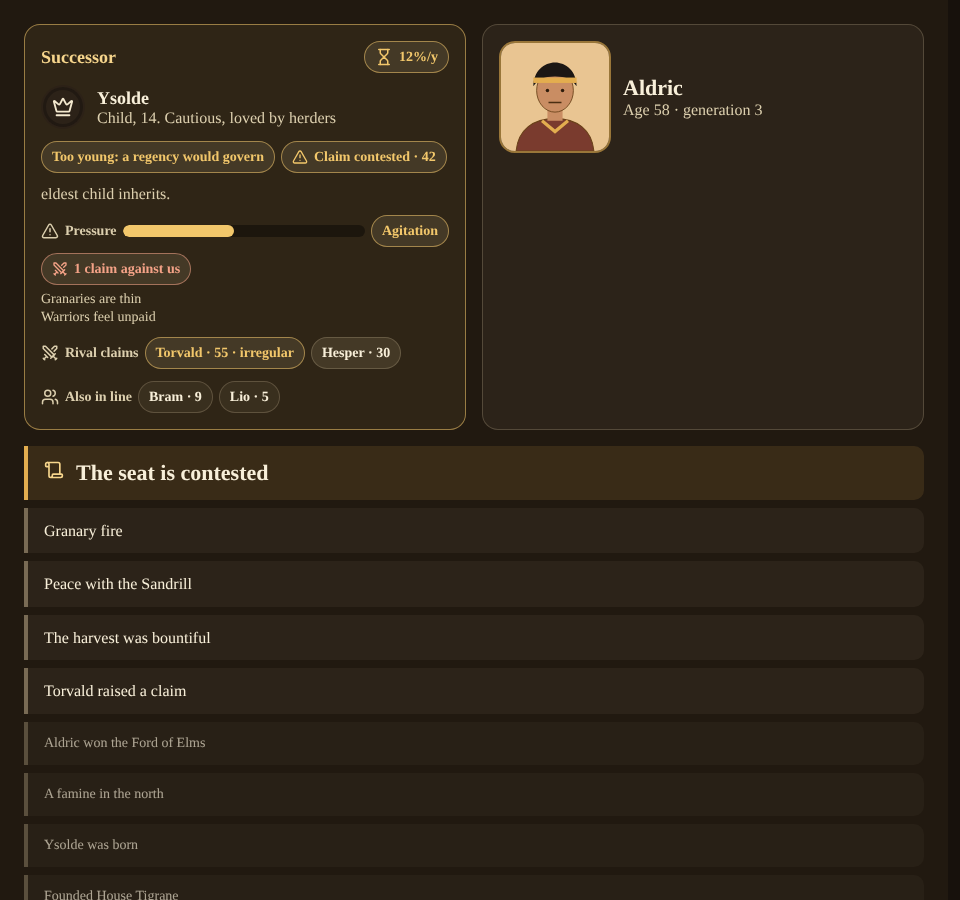
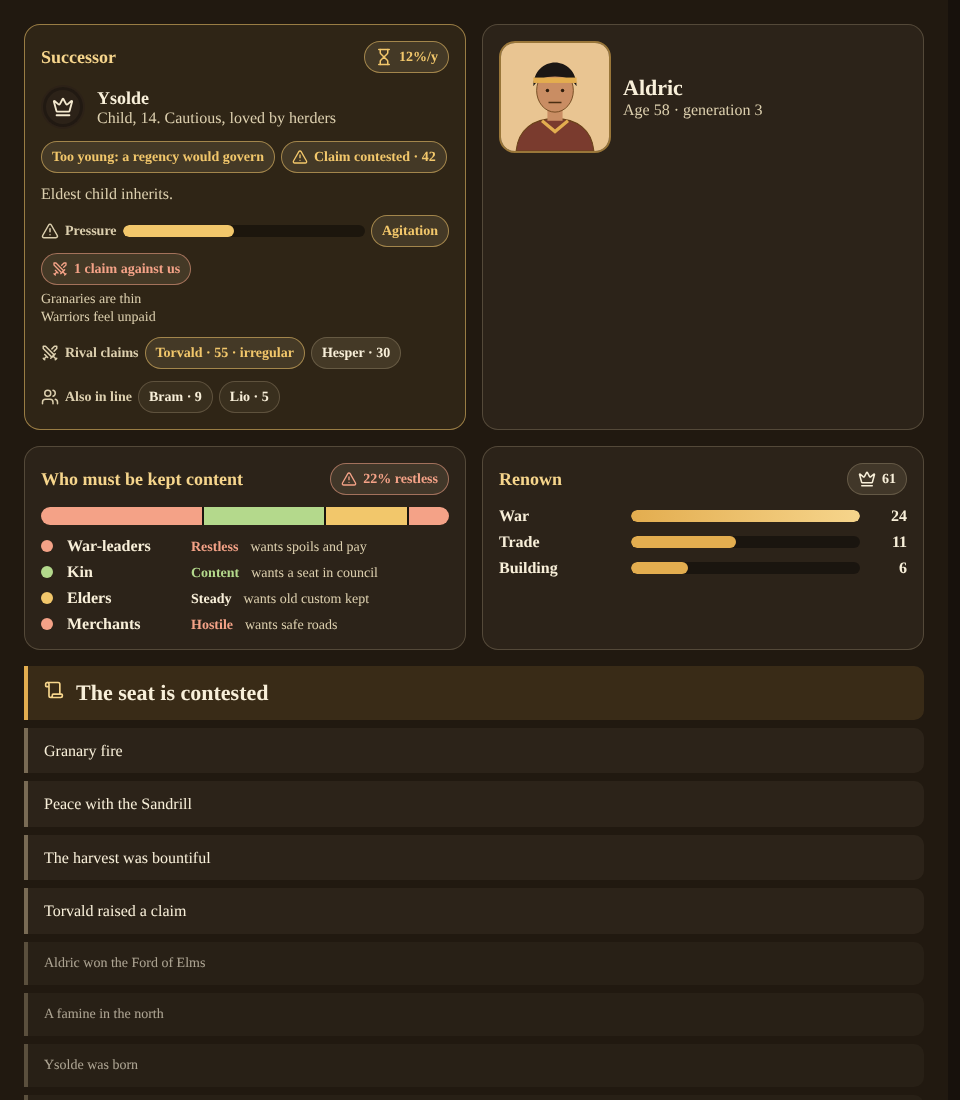
UI lane B: Hearth factions strip + renown bars on shared scale
Claude-Session: https://claude.ai/code/session_01Y7uzF5Xhf4ECeLZneKE5sH

diff --git a/src/ui/hearth/screens.tsx b/src/ui/hearth/screens.tsx
@@ -10,7 +10,7 @@ import {STAGES} from '@/game/breakaways';
 import {useOwnerReadModels} from '../useOwnerReadModels';
 import {useActionFeedback,FeedbackList} from '../council/useActionFeedback';
 import {CapitulationTerms} from '../council/CapitulationTerms';
-import {HandoverCard,RulerPortrait,FameFeed} from './councilCards';
+import {HandoverCard,RulerPortrait,FameFeed,FactionsCard,RenownCard} from './councilCards';
 const nice=(s:string)=>{const t=s.replace(/([a-z])([A-Z])/g,"$1 $2").toLowerCase();return t.charAt(0).toUpperCase()+t.slice(1);};
 import {FACTION_LABEL,lawLabel,loyaltyWord} from '../council/CouncilParts';
 import {SocietyFlag} from '../SocietyFlag';
@@ -107,8 +107,8 @@ export function CouncilScreen({engine,onClose,initial}:{engine:Engine;onClose:()
    {c.house&&<section className="hw-card"><div className="hw-card-head"><h3>House</h3></div><ul className="hw-chips">{c.house.family.map(p=><li key={p.name+p.age} className="hw-chip hw-chip-soft"><Users size={16}/>{p.name} · {p.role} · {p.age}</li>)}</ul></section>}
   </div>}
   {tab==='realm'&&<div className="hw-grid-2">
-   {c.showFactions&&c.factions.length>0&&<section className="hw-card"><div className="hw-card-head"><h3>Factions</h3>{c.coalitionLoss>0&&<span className="hw-chip t-bad">{c.coalitionLoss}% restless</span>}</div><ul className="hw-list">{c.factions.map(f=><li key={f.kind}><GameTooltip title={FACTION_LABEL[f.kind]??f.kind} description={`Wants ${f.demand}`}><span className="hw-meter-row"><b className="hw-lbl">{FACTION_LABEL[f.kind]??f.kind}</b>{bar(f.power,tone(f.loyalty))}<em className={'t-'+tone(f.loyalty)}>{loyaltyWord(f.loyalty)}</em></span></GameTooltip></li>)}</ul></section>}
-   {c.glory.some(g=>g.value>0)&&<section className="hw-card"><div className="hw-card-head"><h3>Renown</h3><span className="hw-chip"><Crown size={18}/>{c.gloryScore}</span></div><ul className="hw-list">{[...c.glory].filter(g=>g.value>0).sort((a,b)=>b.value-a.value).map(g=><li key={g.stream}><span className="hw-meter-row"><b className="hw-lbl">{g.stream}</b>{bar(Math.min(100,g.value*4))}<em>{g.value}</em></span></li>)}</ul></section>}
+   {c.showFactions&&c.factions.length>0&&<FactionsCard factions={c.factions} coalitionLoss={c.coalitionLoss}/>}
+   <RenownCard glory={c.glory} score={c.gloryScore}/>
    {c.expansion&&<section className="hw-card"><div className="hw-card-head"><h3>Expansion</h3><span className="hw-chip">{c.expansion.mode}</span></div>{c.expansion.why.length>0&&<ul className="hw-chips">{c.expansion.why.map(w=><li key={w} className="hw-chip hw-chip-soft">{w}</li>)}</ul>}</section>}
    {(s?.own.length||0)>0&&<section className="hw-card"><div className="hw-card-head"><h3>Our outlying halls</h3></div><ul className="hw-chips">{s!.own.map((o,i)=><li key={i} className="hw-chip"><StageMeter stage={o.stage} label="Outlying hall"/>{o.resolution?<em>{o.resolution}</em>:<small>{o.pressure}%</small>}</li>)}</ul></section>}
    {b?.enabled&&b.routes.length>0&&<section className="hw-card"><div className="hw-card-head"><h3>Routes</h3></div><ul className="hw-list">{b.routes.map(r=><li key={r.team}><span className="hw-meter-row"><b className="hw-lbl">{r.name}</b><span className={cx('hw-chip',r.mode==='blocked'&&'t-bad')}>{ROUTE_ICON({size:18})}{r.mode==='open'?'Open':r.mode==='agreement'?'Agreed':r.mode==='escort'?`Escort ×${r.guards||2}`:'Blocked'}</span></span></li>)}</ul></section>}

diff --git a/src/ui/hearth/councilCards.tsx b/src/ui/hearth/councilCards.tsx
@@ -50,3 +50,23 @@ export function FameFeed({log}:{log:string[]}){
  if(!items.length)return <p className="hw-empty">Nothing has happened to the house yet.</p>;
  return <ol className="hw-fame" aria-label="Chronicle">{items.map((l,i)=><li key={i} className={cx(i===0&&'is-new',i>4&&'is-old')}>{i===0&&<Scroll size={20}/>}<span>{l}</span></li>)}</ol>;
 }
+
+const mood=(n:number)=>n<35?'bad':n>65?'good':'mid';
+const MOOD_COLOR={bad:'var(--hw-bad)',mid:'var(--hw-warn)',good:'var(--hw-good)'} as const;
+const FACTION_NAME:Record<string,string>={kin:'Kin',warriors:'War-leaders',priests:'Priests',elders:'Elders',merchants:'Merchants',landholders:'Landholders',commons:'Common folk',assembly:'Assembly'};
+/** Factions: one segmented strip (width = weight in the realm, colour = mood) so the whole court reads at a glance, then a row per
+ * faction with what it wants stated outright rather than hidden in a tooltip. Colour is never the only cue: each row names the mood. */
+export function FactionsCard({factions,coalitionLoss}:{factions:CouncilModel['factions'];coalitionLoss:number}){
+ const word=(n:number)=>n<20?'Hostile':n<35?'Restless':n<50?'Uneasy':n<65?'Steady':n<85?'Content':'Devoted';
+ const sorted=[...factions].sort((a,b)=>b.power-a.power);
+ return <section className="hw-card hw-factions" aria-label="Factions"><div className="hw-card-head"><h3>Who must be kept content</h3>{coalitionLoss>0&&<span className="hw-chip t-bad"><TriangleAlert size={16}/>{coalitionLoss}% restless</span>}</div>
+  <div className="hw-strip" role="img" aria-label={'Faction weight and mood: '+sorted.map(f=>`${FACTION_NAME[f.kind]??f.kind} ${word(f.loyalty)}`).join(', ')}>{sorted.map(f=><span key={f.kind} style={{flexGrow:Math.max(4,f.power),background:MOOD_COLOR[mood(f.loyalty)]}}/>)}</div>
+  <ul className="hw-list">{sorted.map(f=><li key={f.kind} className="hw-faction"><span className={cx('hw-dot','d-'+mood(f.loyalty))} aria-hidden/><b>{FACTION_NAME[f.kind]??f.kind}</b><em className={'t-'+mood(f.loyalty)}>{word(f.loyalty)}</em><span className="hw-sub">wants {f.demand}</span></li>)}</ul></section>;
+}
+
+/** Renown: bars share one scale (the largest stream fills it) and are ranked, so the player sees what the house is actually famous for. */
+export function RenownCard({glory,score}:{glory:CouncilModel['glory'];score:number}){
+ const rows=glory.filter(g=>g.value>0).sort((a,b)=>b.value-a.value);if(!rows.length)return null;const top=rows[0].value;
+ return <section className="hw-card hw-renown" aria-label="Renown"><div className="hw-card-head"><h3>Renown</h3><span className="hw-chip"><Crown size={18}/>{score}</span></div>
+  <ul className="hw-list">{rows.map((g,i)=><li key={g.stream}><span className="hw-meter-row"><b className="hw-lbl">{g.stream}</b><span className={cx('hw-meter',i===0&&'is-top')} role="img" aria-label={`${g.stream} ${g.value}`}><i style={{width:Math.max(6,g.value/top*100)+'%'}}/></span><b>{g.value}</b></span></li>)}</ul></section>;
+}

diff --git a/src/ui/hearth/hearth.css b/src/ui/hearth/hearth.css
@@ -335,3 +335,11 @@
 .hw-fame li.is-new{border-left-color:var(--hw-gold);background:rgba(227,173,79,.13);font-size:var(--hw-fs-l);font-weight:650}
 .hw-fame li.is-new svg{color:var(--hw-gold-2);flex:none;margin-top:2px}
 .hw-fame li.is-old{opacity:.65;font-size:var(--hw-fs-s)}
+.hw-strip{display:flex;height:18px;border-radius:9px;overflow:hidden;gap:2px;background:rgba(0,0,0,.4)}
+.hw-strip span{min-width:8px}
+.hw-faction{display:grid;grid-template-columns:14px minmax(7em,auto) auto 1fr;gap:var(--hw-s2) var(--hw-s3);align-items:baseline}
+.hw-faction em{font-style:normal;font-weight:700;font-size:var(--hw-fs-s)}
+.hw-faction .hw-sub{font-size:var(--hw-fs-s)}
+.hw-dot{width:12px;height:12px;border-radius:50%;align-self:center;background:var(--hw-warn)}.hw-dot.d-bad{background:var(--hw-bad)}.hw-dot.d-good{background:var(--hw-good)}
+.hw-renown .hw-meter.is-top i{background:linear-gradient(90deg,var(--hw-gold),var(--hw-gold-2))}
+@media (max-width:640px){.hw-faction{grid-template-columns:14px 1fr auto}.hw-faction .hw-sub{grid-column:2/4}}
